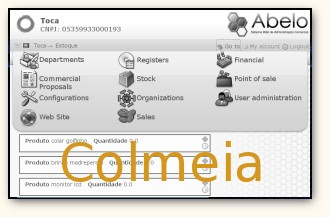
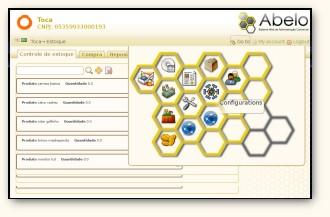
ActionItem190: more bug fix..

diff --git a/public/designs/organization/templates/abelo_colmeia/stylesheets/userbar.css b/public/designs/organization/templates/abelo_colmeia/stylesheets/userbar.css
@@ -12,18 +12,21 @@ height: 30px;
   text-decoration: none;
   margin: 0px 3px 2px 3px;
 }
-#userbar .navigation_bar a {
+.navigation_bar a {
   color: #654;
+  text-decoration: none;
 }
-#userbar .navigation_bar a:hover {
+.navigation_bar a:hover {
   color: #000;
   margin-bottom: 0px;
 }
-#userbar .navigation_bar {
-  padding-left: 60px;
+.navigation_bar {
+position: absolute;
+top: 85px;
+left: 60px;
 }
 
-#userbar .navigation_bar .control_header{
+.navigation_bar .control_header{
   position: absolute;
   left: 0;
   bottom: 0;
@@ -31,7 +34,7 @@ height: 30px;
   height: 22px;
 }
 
-#userbar .navigation_bar .control_header a {
+.navigation_bar .control_header a {
   margin:0px;
   padding:0px;
   border:0px;
@@ -39,28 +42,29 @@ height: 30px;
   height: 22px
 }
 
-#userbar .navigation_bar .control_header a:hover {
+.navigation_bar .control_header a:hover {
   display: table-cell;
   border: 0px;
   margin: 0px;
   padding: 0px;
 }
 
-#userbar .navigation_bar div.control_header a.show {
+.navigation_bar div.control_header a.show {
   background: url('../images/downbar.png') top left no-repeat;
 }
 
-#userbar .navigation_bar .control_header a.hide {
+.navigation_bar .control_header a.hide {
   background: url('../images/upbar.png') top left no-repeat;
 }
 
-#userbar .navigation_bar .control_header span {
+.navigation_bar .control_header span {
   display: none;
 }
 
 #userbar .login_bar a {
   opacity: 0.4;
 }
+
 #userbar .login_bar a#goto {
   opacity: 0.6;
 }

diff --git a/public/designs/organization/templates/default/stylesheets/designbox.css b/public/designs/organization/templates/default/stylesheets/designbox.css
@@ -1,0 +1,5 @@
+.design_boxes div {
+  border: 1px solid black;
+  padding: 1px;
+  margin: 1px;
+}
